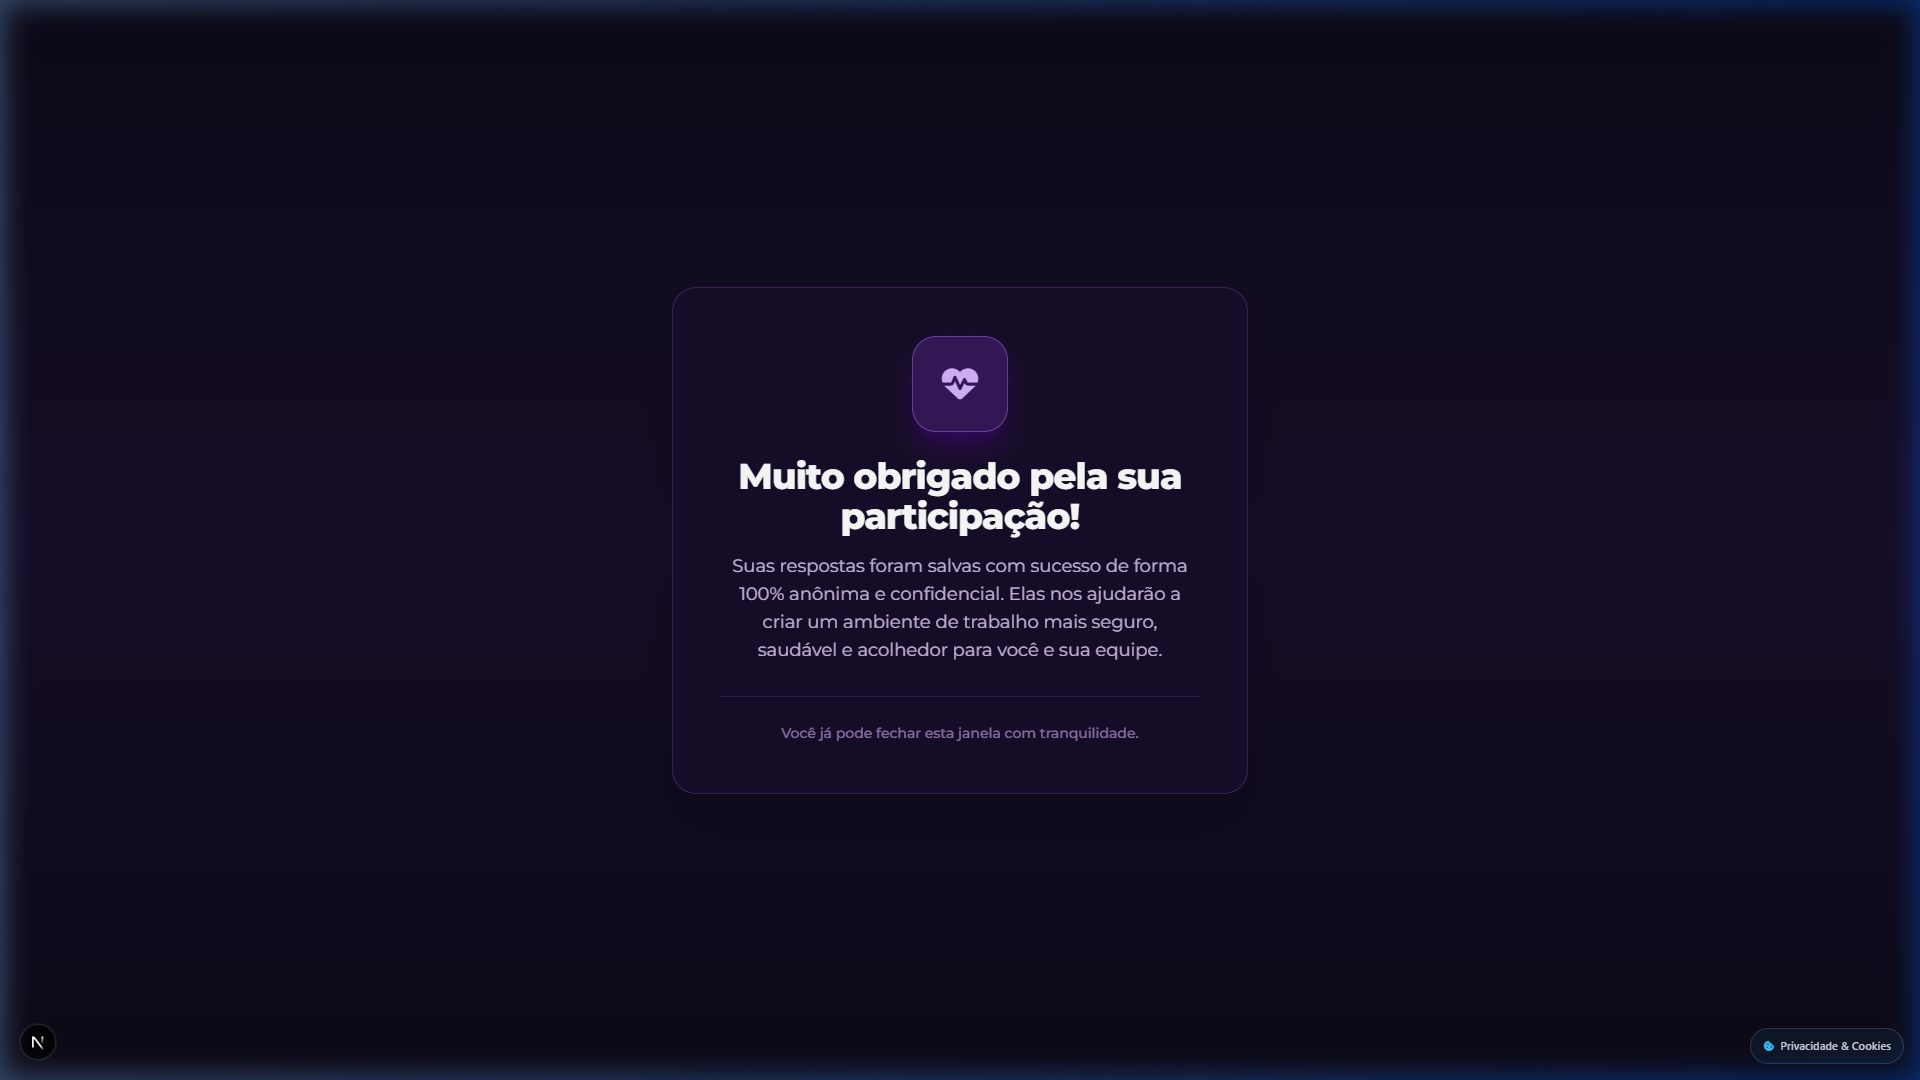
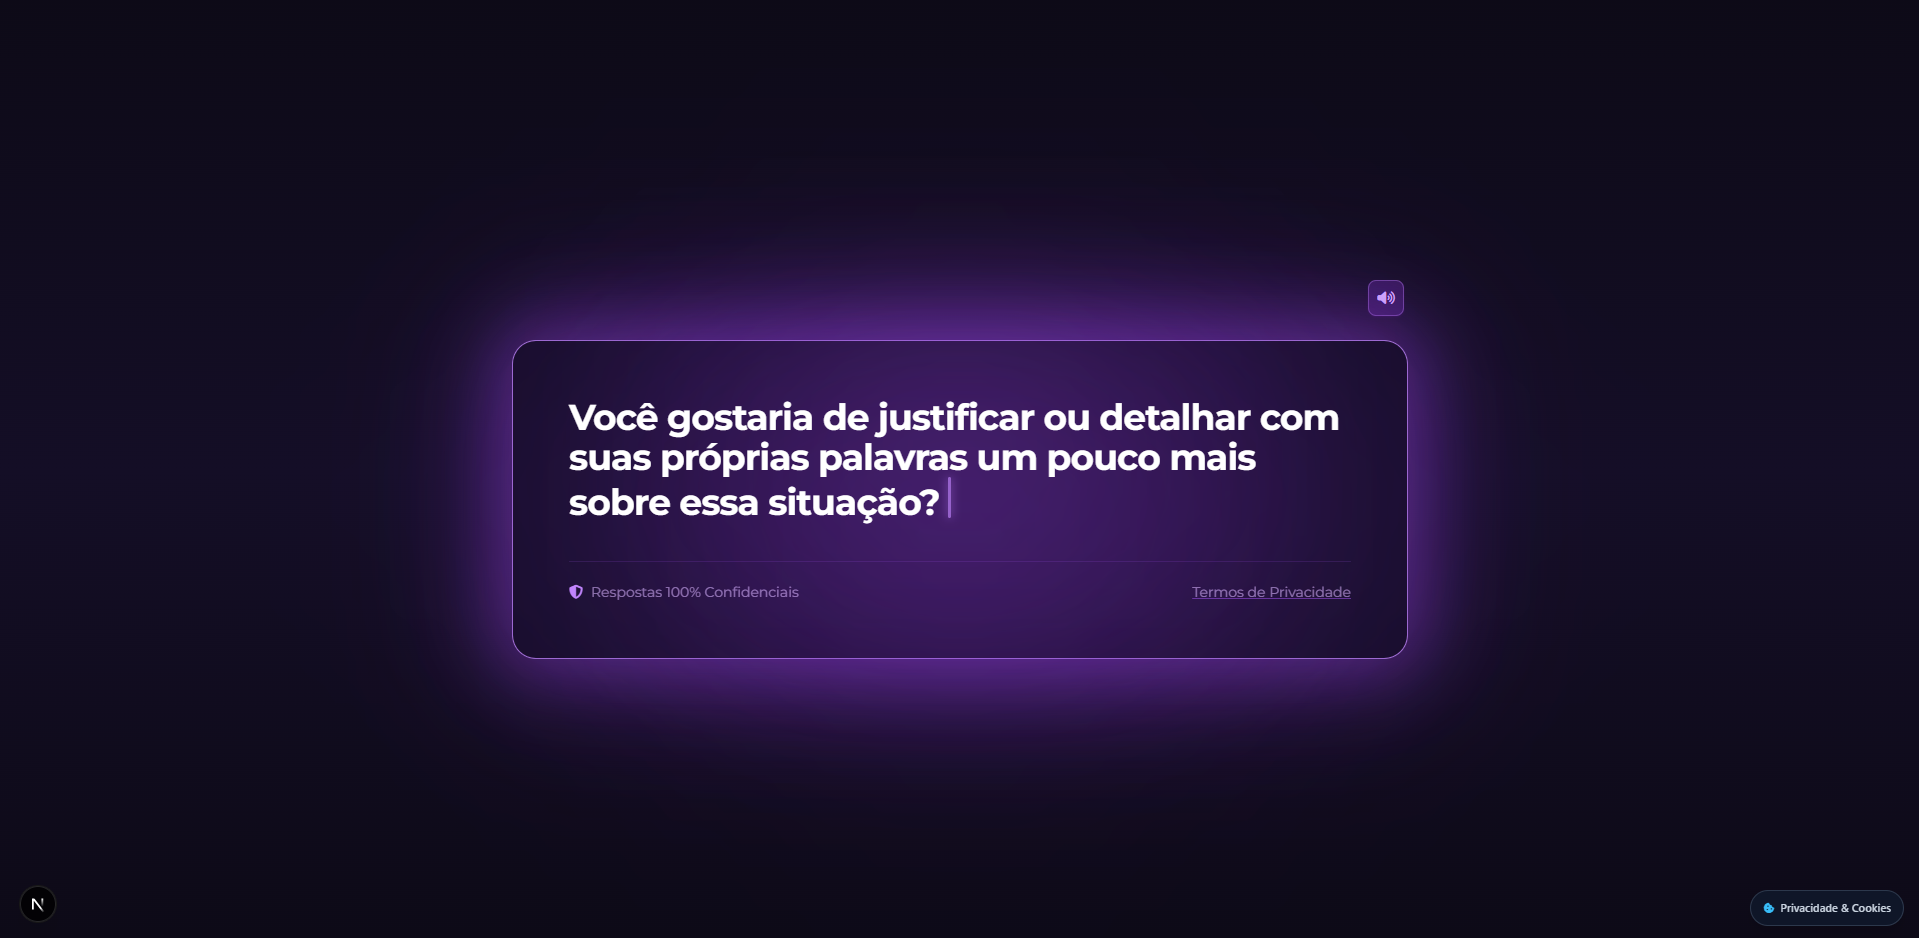
docs: atualizar captura de tela 05 da entrevista conversacional no README

Changed region(s): [[0.2152, 0.2783, 0.7686, 0.8038], [0.0, 0.0, 1.0, 1.0]]

diff --git a/README.md b/README.md
@@ -34,10 +34,10 @@ Interface de acolhimento sem atritos, termos claros de anonimato e consentimento
 
 ---
 
-### 5. Entrevista Conversacional com Voz Neural e Conclusão Segura
-Diálogo empático com voz neural ultra-realista em Português Brasileiro (Microsoft Edge Neural TTS), widgets dinâmicos (cartões binários, escolha contextual e escala 0-10 com animações motion) e confirmação imediata de envio anônimo.
+### 5. Entrevista Conversacional Investigativa com Voz Neural
+Interface de diálogo dinâmico da IA com digitação em tempo real sincronizada à voz neural brasileira (Microsoft Edge Neural TTS), transições ágeis, acolhimento empático e protocolo de aprofundamento investigativo (convite prévio para justificativa).
 
-![Conclusão da Pesquisa](public/docs/05_survey_completed.png)
+![Entrevista Conversacional com IA](public/docs/05_survey_completed.png)
 
 ---
 
